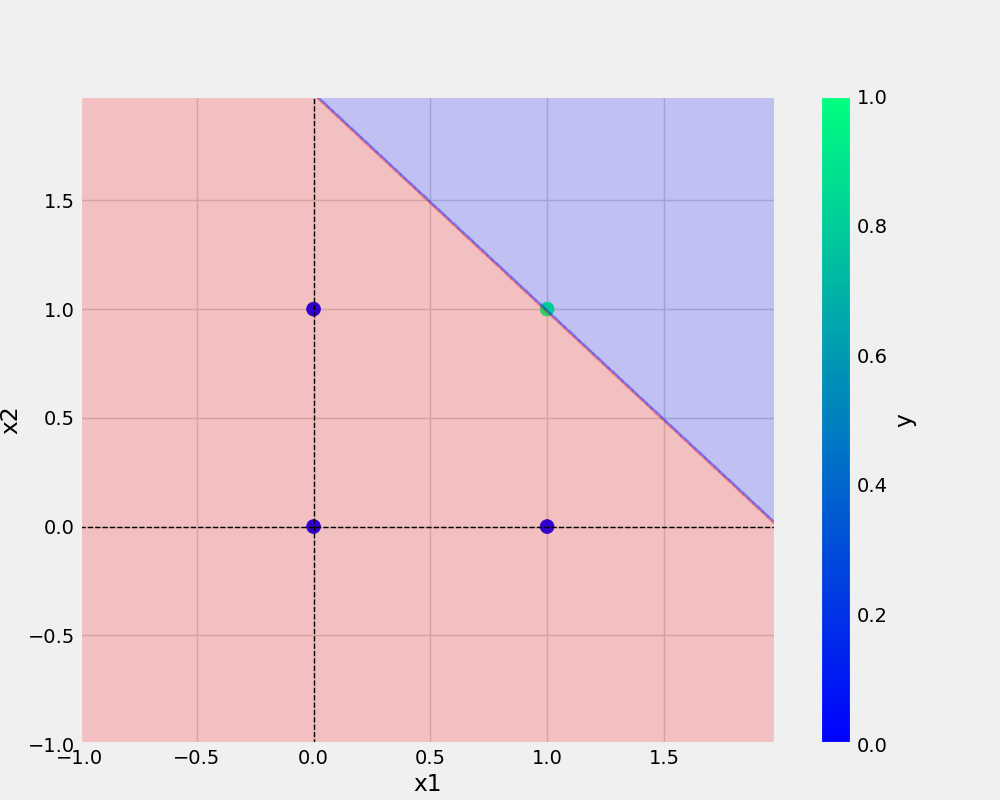
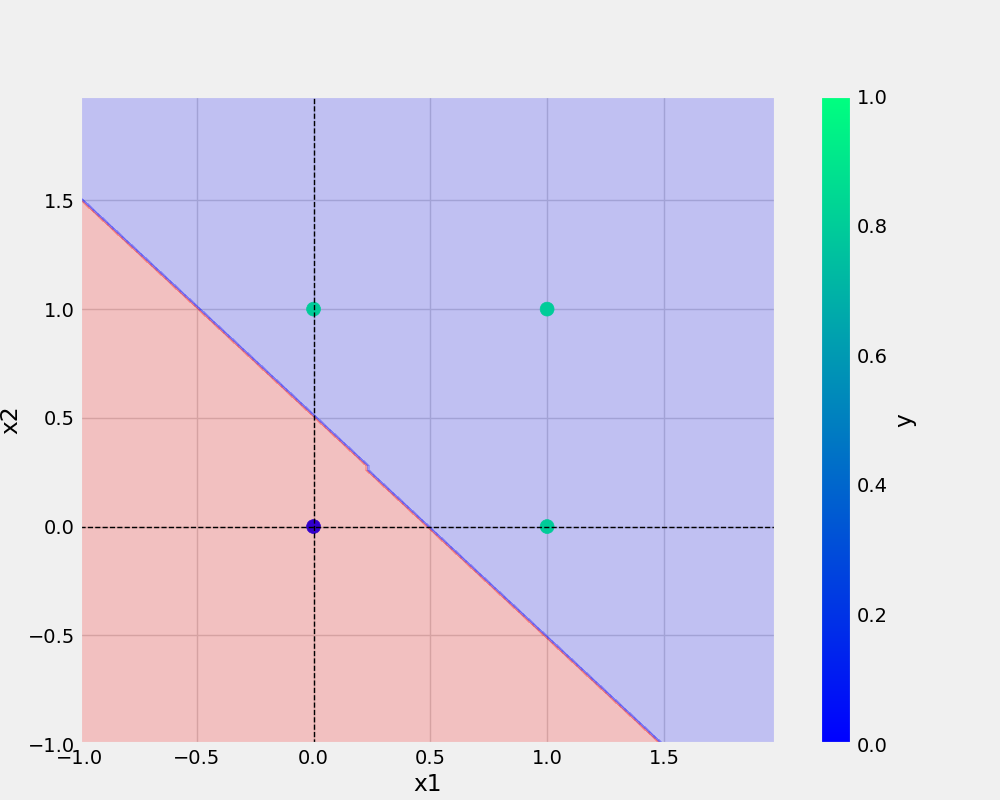
or file completed

Changed region(s): [[0.062, 0.125, 0.775, 0.9375]]

diff --git a/or.py b/or.py
@@ -7,7 +7,7 @@ import numpy as np
 OR = {
     "x1": [0,0,1,1],
     "x2": [0,1,0,1],
-    "y": [0,0,0,1],
+    "y": [0,1,1,1],
 }
 
 df = pd.DataFrame(OR)
